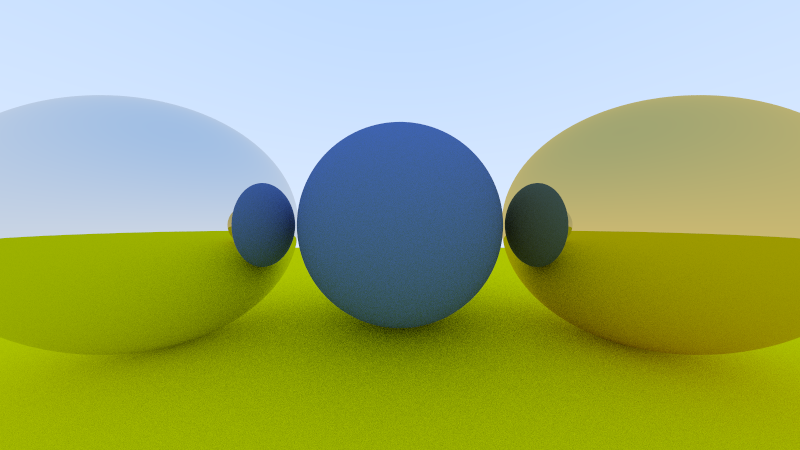
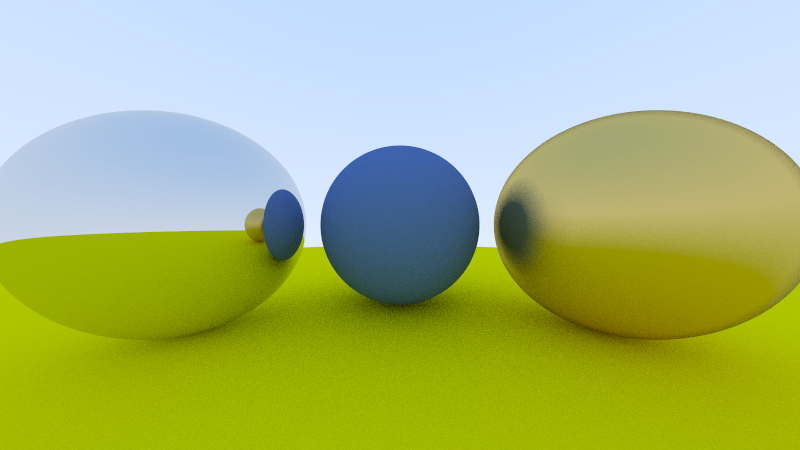
adding metal fuzziness

diff --git a/src/material.rs b/src/material.rs
@@ -3,7 +3,7 @@ use crate::{Color, HitRecord, Ray, V3};
 #[derive(Debug, Clone, Copy)]
 pub enum Material {
     Lambertian { albedo: Color },
-    Metal { albedo: Color },
+    Metal { albedo: Color, fuzz: f64 },
 }
 
 impl Material {
@@ -11,14 +11,16 @@ impl Material {
         Self::Lambertian { albedo }
     }
 
-    pub fn metal(albedo: Color) -> Material {
-        Self::Metal { albedo }
+    pub fn metal(albedo: Color, fuzz: f64) -> Material {
+        let fuzz = if fuzz < 1.0 { fuzz } else { 1.0 };
+
+        Self::Metal { albedo, fuzz }
     }
 
     pub fn scatter(&self, r_in: &Ray, rec: &HitRecord) -> Option<(Ray, Color)> {
         match self {
             Self::Lambertian { albedo } => lambertian_scatter(albedo, rec),
-            Self::Metal { albedo } => metal_scatter(albedo, r_in, rec),
+            Self::Metal { albedo, fuzz } => metal_scatter(albedo, *fuzz, r_in, rec),
         }
     }
 }
@@ -33,9 +35,13 @@ fn lambertian_scatter(albedo: &Color, rec: &HitRecord) -> Option<(Ray, Color)> {
     Some((scattered, *albedo))
 }
 
-fn metal_scatter(albedo: &Color, r_in: &Ray, rec: &HitRecord) -> Option<(Ray, Color)> {
-    let reflected = r_in.dir.reflect(rec.normal);
+fn metal_scatter(albedo: &Color, fuzz: f64, r_in: &Ray, rec: &HitRecord) -> Option<(Ray, Color)> {
+    let reflected = r_in.dir.reflect(rec.normal).unit_vector() + (fuzz * V3::random_unit_vector());
     let scattered = Ray::new(rec.p, reflected);
 
-    Some((scattered, *albedo))
+    if scattered.dir.dot(&rec.normal) > 0.0 {
+        Some((scattered, *albedo))
+    } else {
+        None
+    }
 }

diff --git a/src/main.rs b/src/main.rs
@@ -23,14 +23,14 @@ fn main() {
     // Materials
     let m_ground = Material::lambertian(Color::new(0.8, 0.8, 0.0));
     let m_center = Material::lambertian(Color::new(0.1, 0.2, 0.5));
-    let m_left = Material::metal(Color::new(0.8, 0.8, 0.8));
-    let m_right = Material::metal(Color::new(0.8, 0.6, 0.2));
+    let m_left = Material::metal(Color::new(0.8, 0.8, 0.8), 0.001);
+    let m_right = Material::metal(Color::new(0.8, 0.6, 0.2), 0.3);
 
     let mut world = HittableList::default();
     world.add(Sphere::new(Point3::new(0.0, -100.5, -1.0), 100.0, m_ground));
-    world.add(Sphere::new(Point3::new(0.0, 0.0, -1.2), 0.5, m_center));
-    world.add(Sphere::new(Point3::new(-1.0, 0.0, -1.0), 0.5, m_left));
-    world.add(Sphere::new(Point3::new(1.0, 0.0, -1.0), 0.5, m_right));
+    world.add(Sphere::new(Point3::new(0.0, 0.0, -1.5), 0.5, m_center));
+    world.add(Sphere::new(Point3::new(-1.0, 0.0, -1.1), 0.5, m_left));
+    world.add(Sphere::new(Point3::new(1.0, 0.0, -1.1), 0.5, m_right));
 
     let camera = Camera::new(ASPECT_RATIO, IMAGE_WIDTH, SAMPLES_PER_PIXEL, MAX_BOUNCES);
     eprintln!("{camera:#?}");
